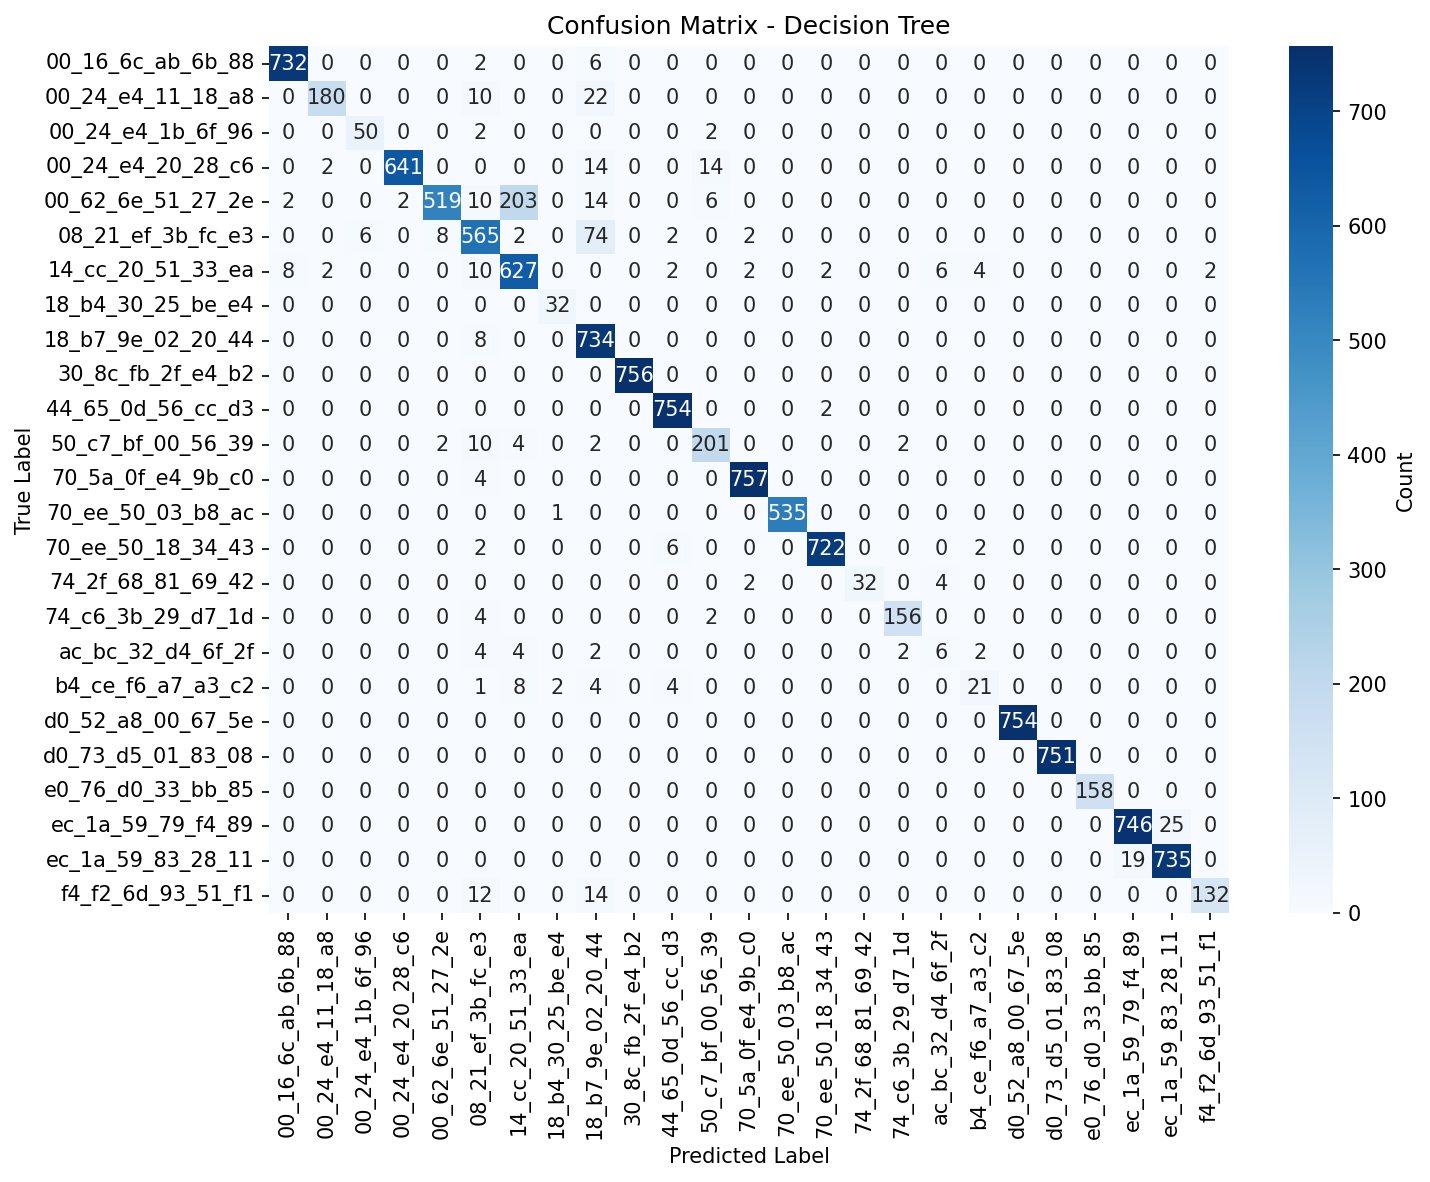
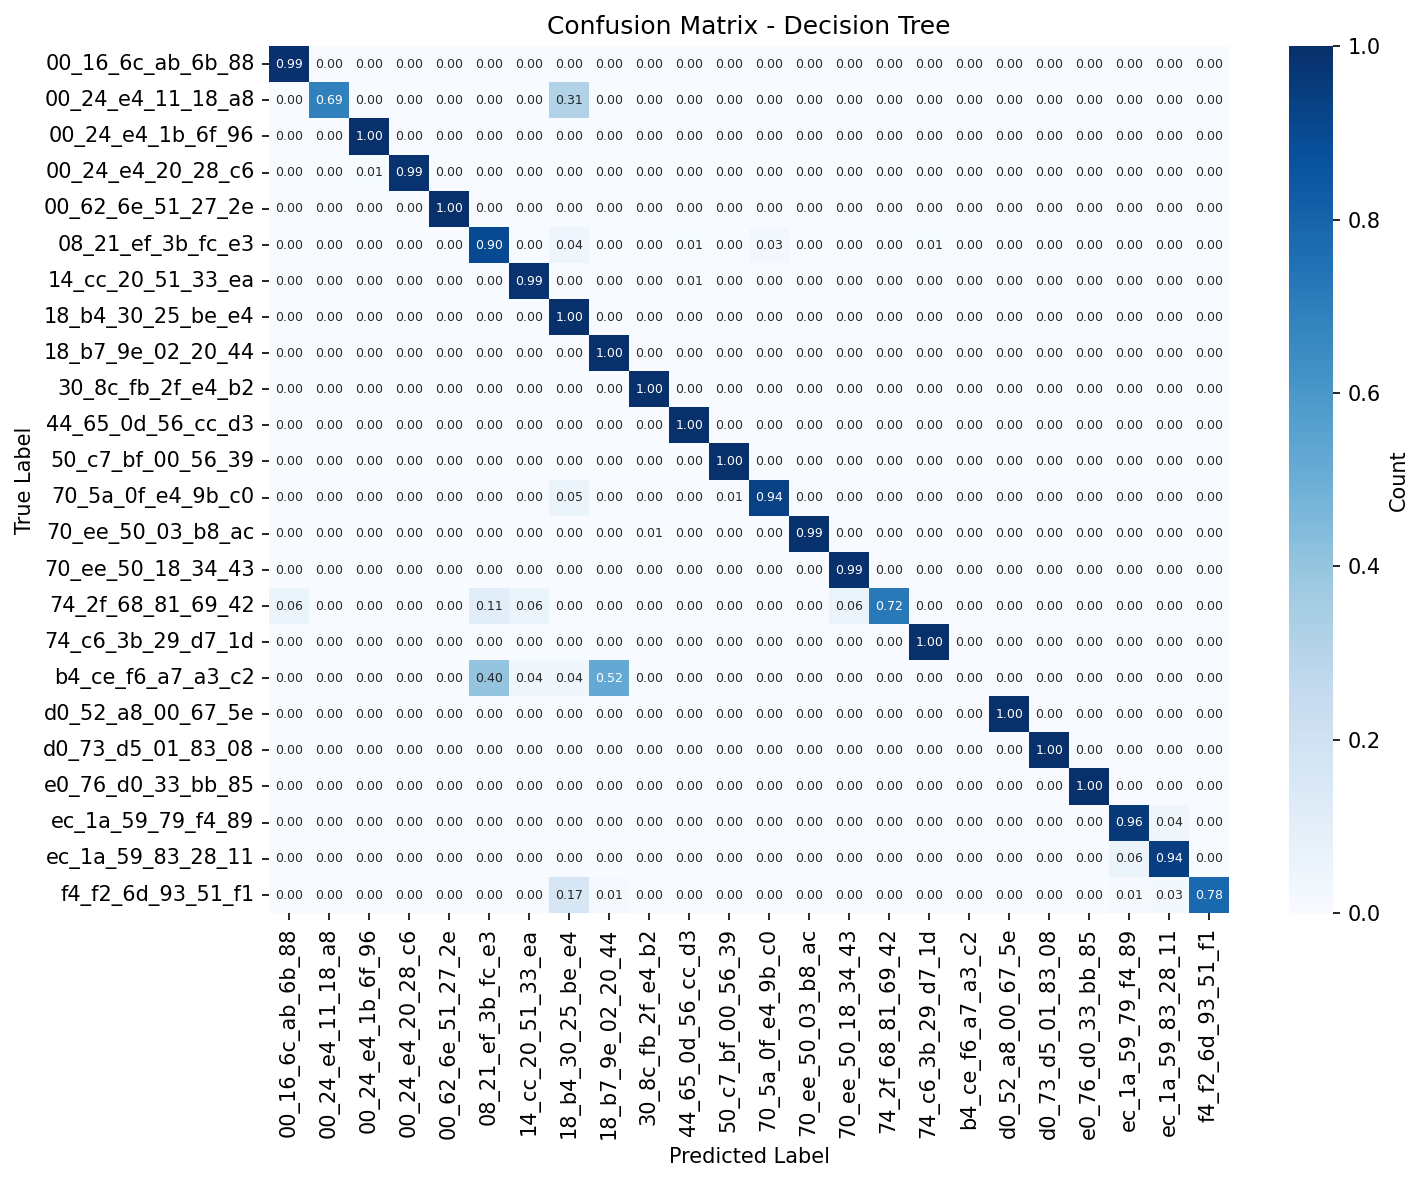
Fix confusion matrix to be normalized

Changed region(s): [[0.0309, 0.0, 0.8658, 1.0], [0.8967, 0.0305, 0.9585, 0.7005], [0.9276, 0.7614, 0.9585, 0.7919]]

diff --git a/main.py b/main.py
@@ -614,11 +614,12 @@ def plot_confusion_matrix(y_true, y_pred, class_names, model_name, filename=None
     cm : numpy array
          Confusion matrix.
     """
-    cm = confusion_matrix(y_true, y_pred)
+    cm = confusion_matrix(y_true, y_pred, normalize='true')
     
     plt.figure(figsize=(10, 8))
-    sns.heatmap(cm, annot=True, fmt='d', cmap='Blues', 
+    sns.heatmap(cm, annot=True, fmt='.2f', cmap='Blues', 
                 xticklabels=class_names, yticklabels=class_names,
+                annot_kws={'size':6},
                 cbar_kws={'label': 'Count'})
     plt.title(f'Confusion Matrix - {model_name}')
     plt.ylabel('True Label')
